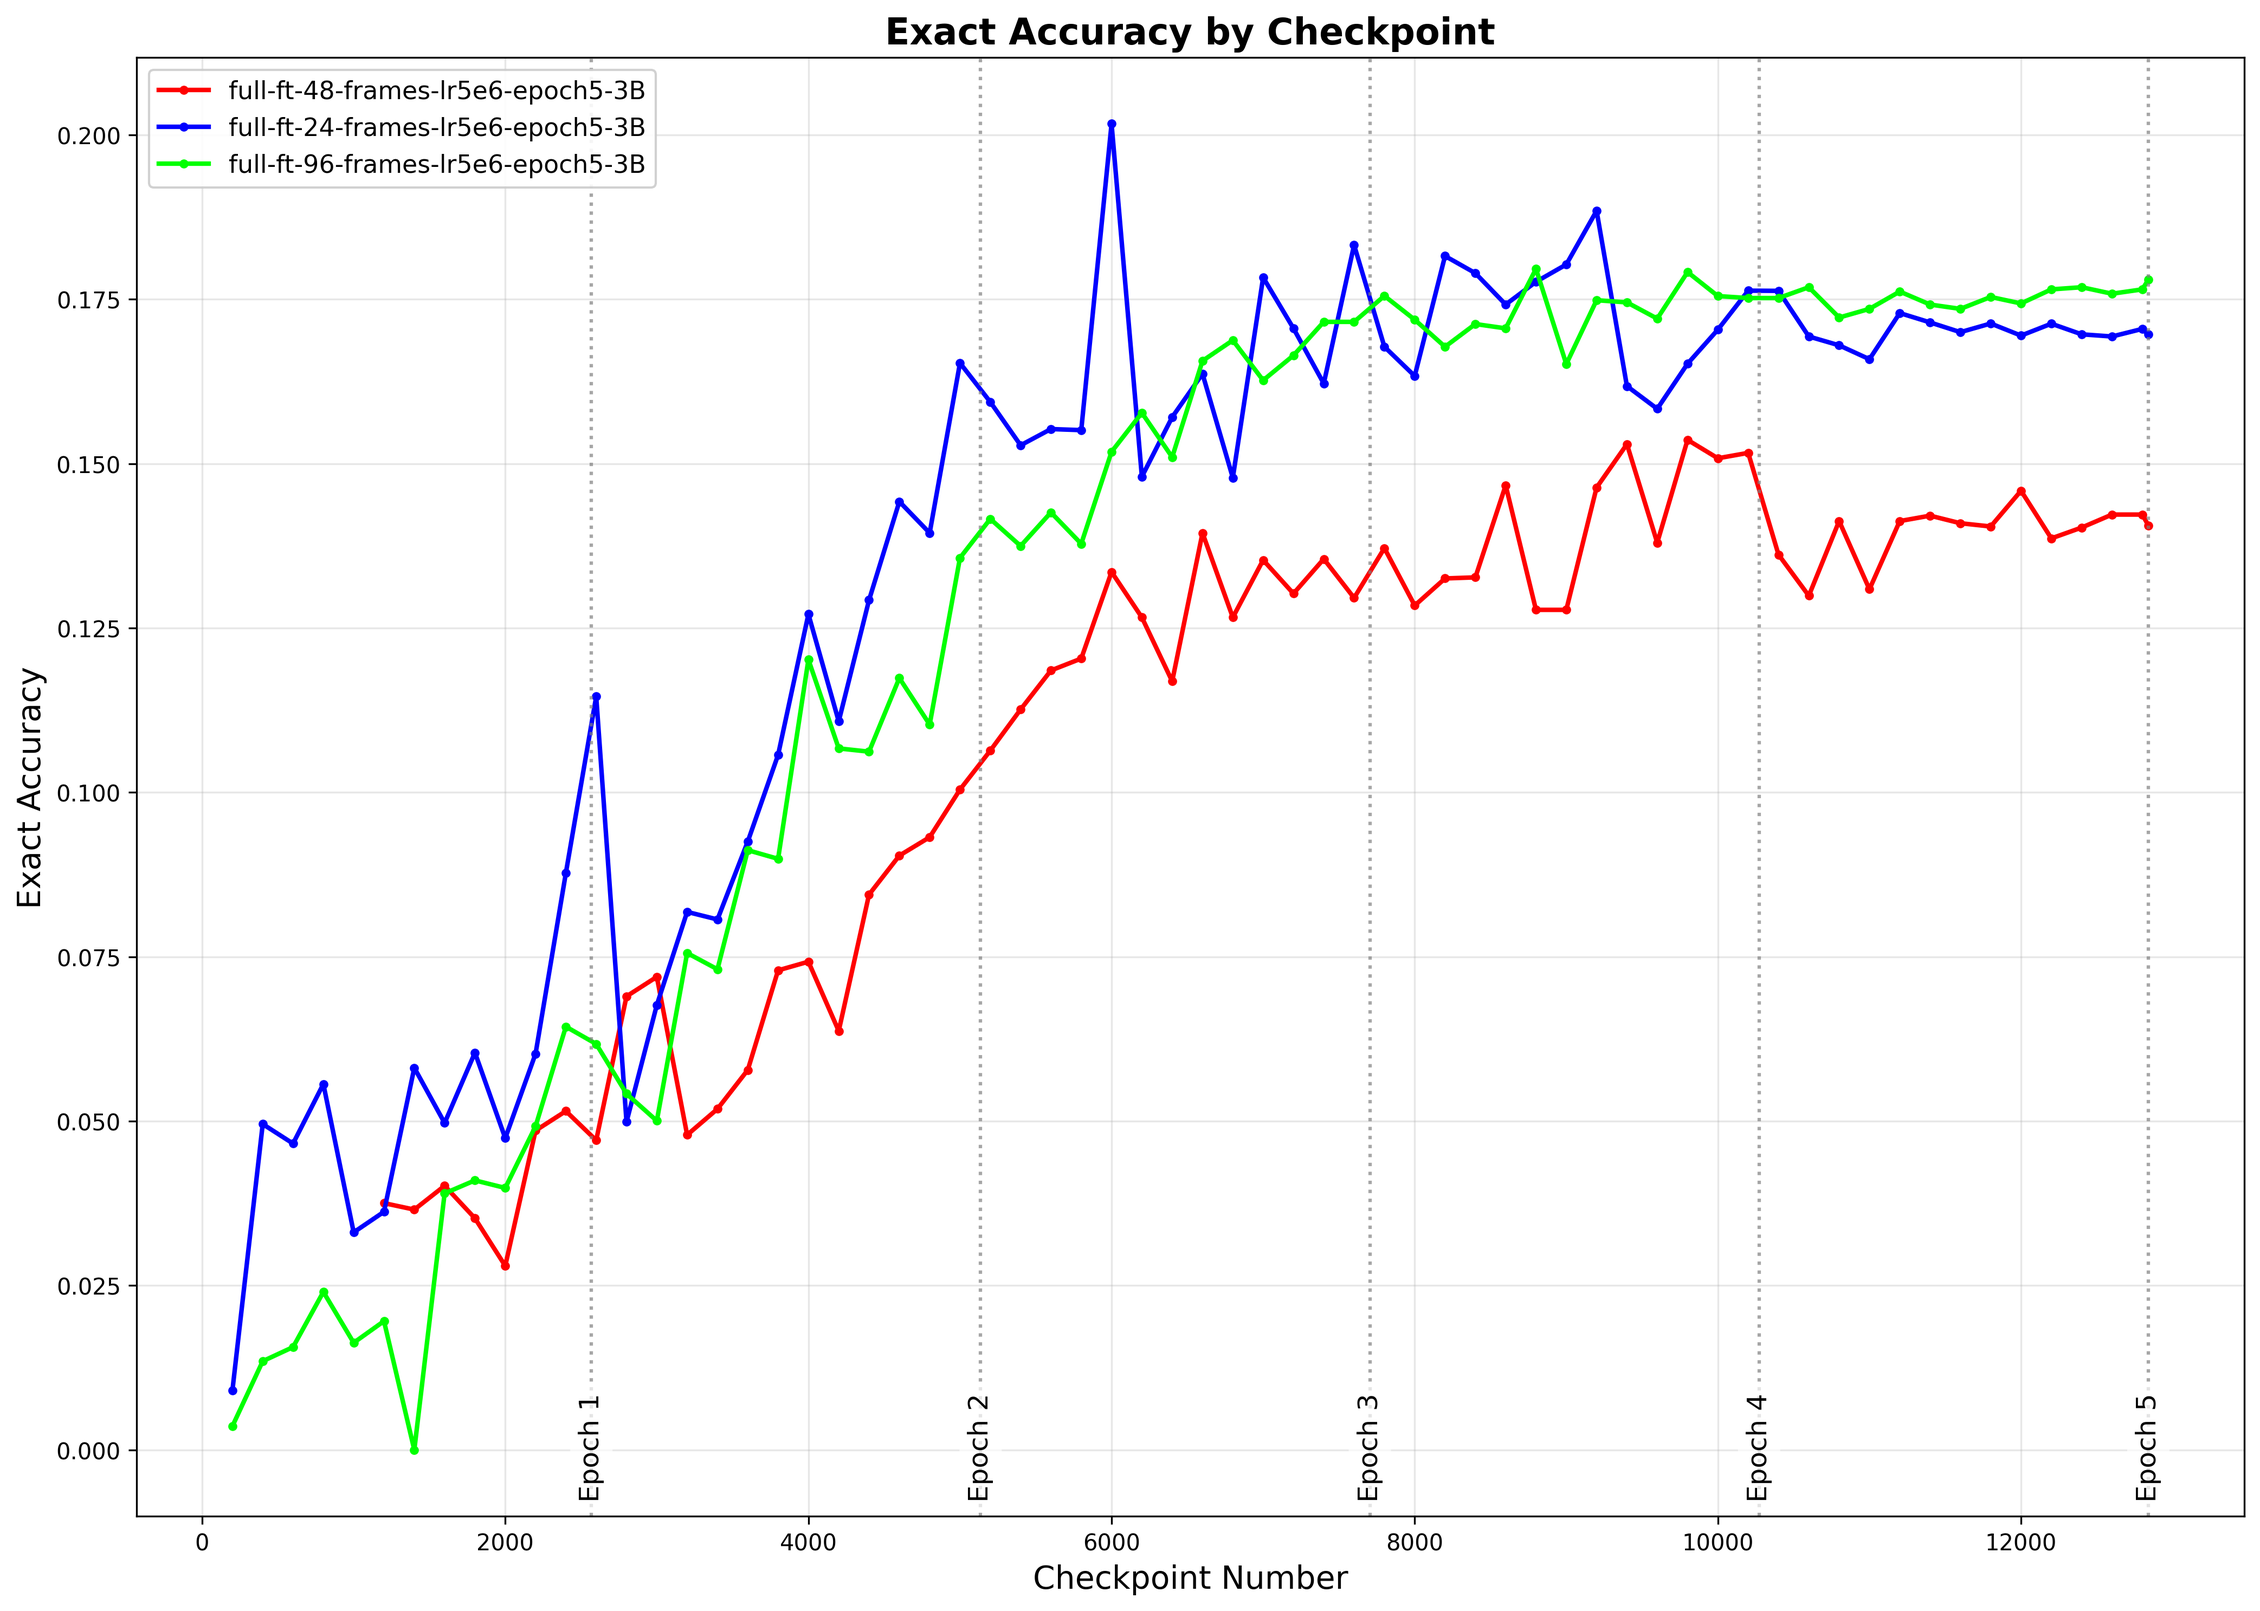
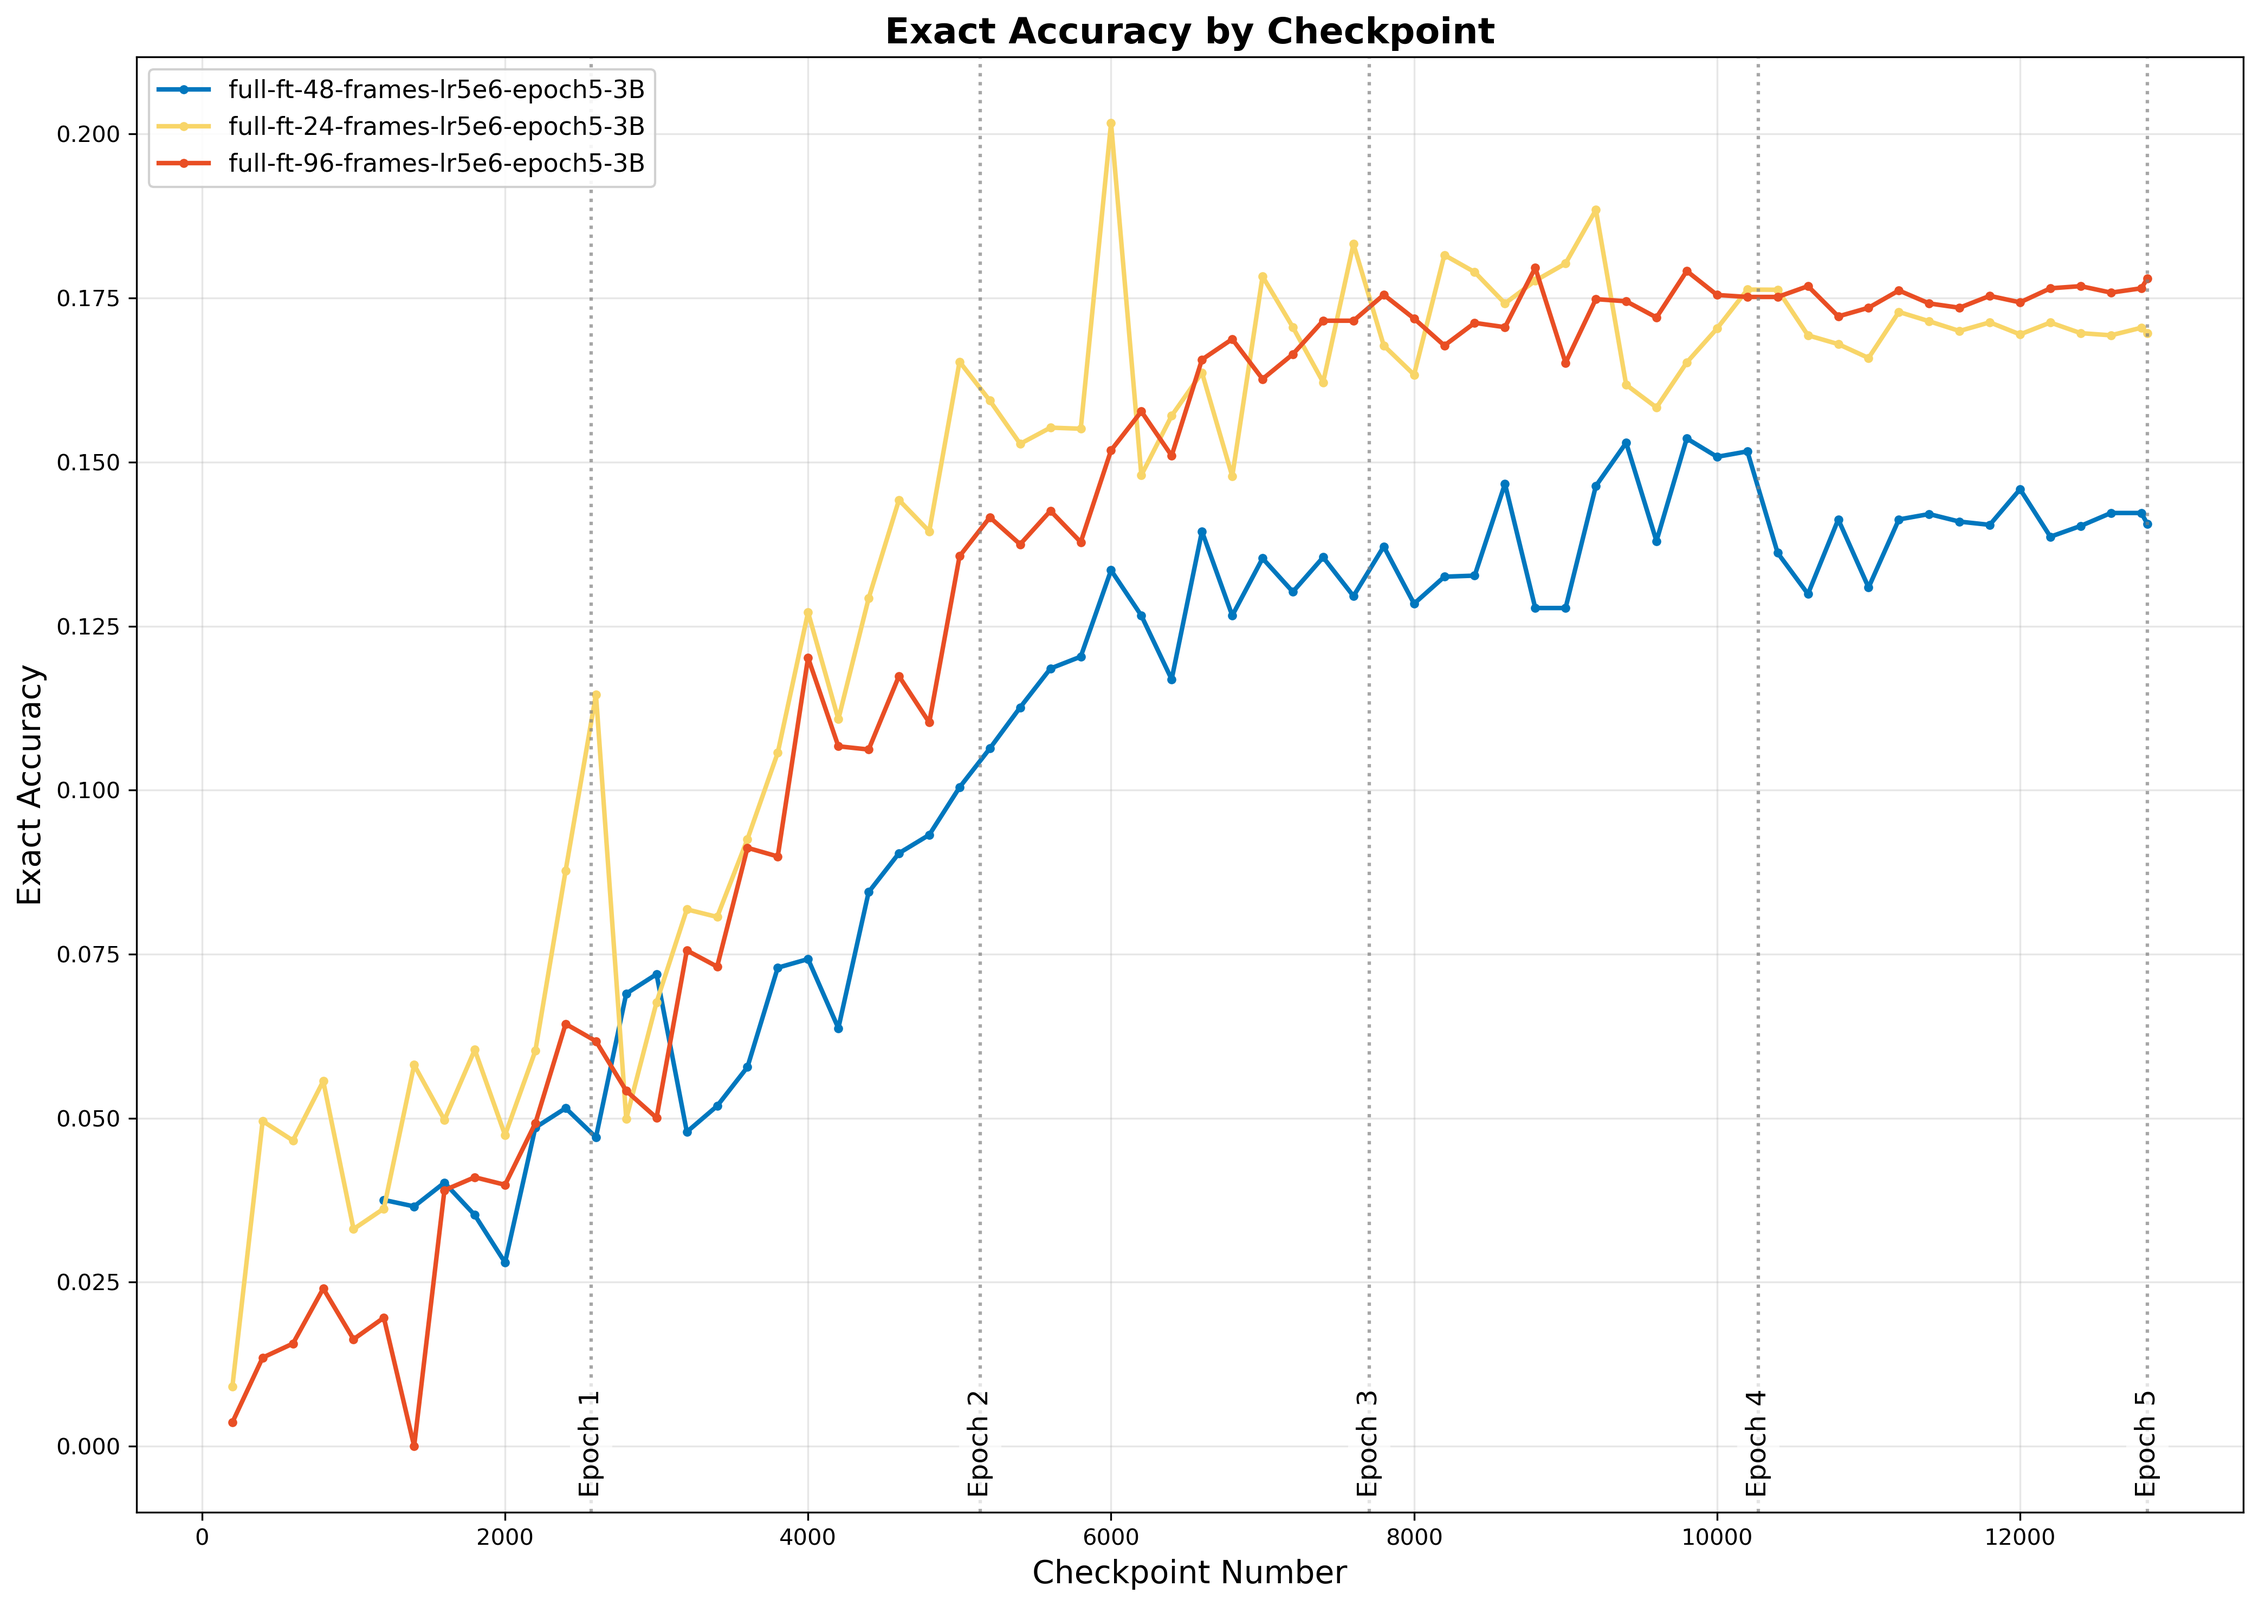
fix format

diff --git a/README.md b/README.md
@@ -1,14 +1,13 @@
 # FindingDory VLM Training
 
+<div align="center">
 <a href="https://arxiv.org/abs/2506.15635" target="_blank">
     <img alt="arXiv" src="https://img.shields.io/badge/arXiv-FindingDory-red?logo=arxiv" height="20" />
 </a>
 <a href="https://findingdory-benchmark.github.io/" target="_blank">
     <img alt="Website" src="https://img.shields.io/badge/🌎_Website-FindingDory-blue.svg" height="20" />
 </a>
-<a href="https://github.com/findingdory-benchmark/findingdory-trl" target="_blank">
-    <img alt="GitHub Code" src="https://img.shields.io/badge/Code-FindingDory--TRL-white?&logo=github&logoColor=white" />
-</a>
+</div>
 
 <div align="center">
 <h1>FindingDory: A Benchmark to Evaluate Memory in Embodied Agents</h1>
@@ -77,8 +76,8 @@ python findingdory/evaluate_llm_outputs.py --root_dir <directory_with_experiment
 
 <div align="center">
 <h4>Exact Accuracy</h4>
-<img src="eval_outputs/exact_accuracy_plot.png" alt="Exact Accuracy Plot" width="600"/>
+<img src="eval_outputs/exact_accuracy_plot.png" alt="Exact Accuracy Plot" width="420"/>
 
 <h4>Relaxed Accuracy</h4>
-<img src="eval_outputs/relaxed_accuracy_plot.png" alt="Relaxed Accuracy Plot" width="600"/>
+<img src="eval_outputs/relaxed_accuracy_plot.png" alt="Relaxed Accuracy Plot" width="420"/>
 </div>
